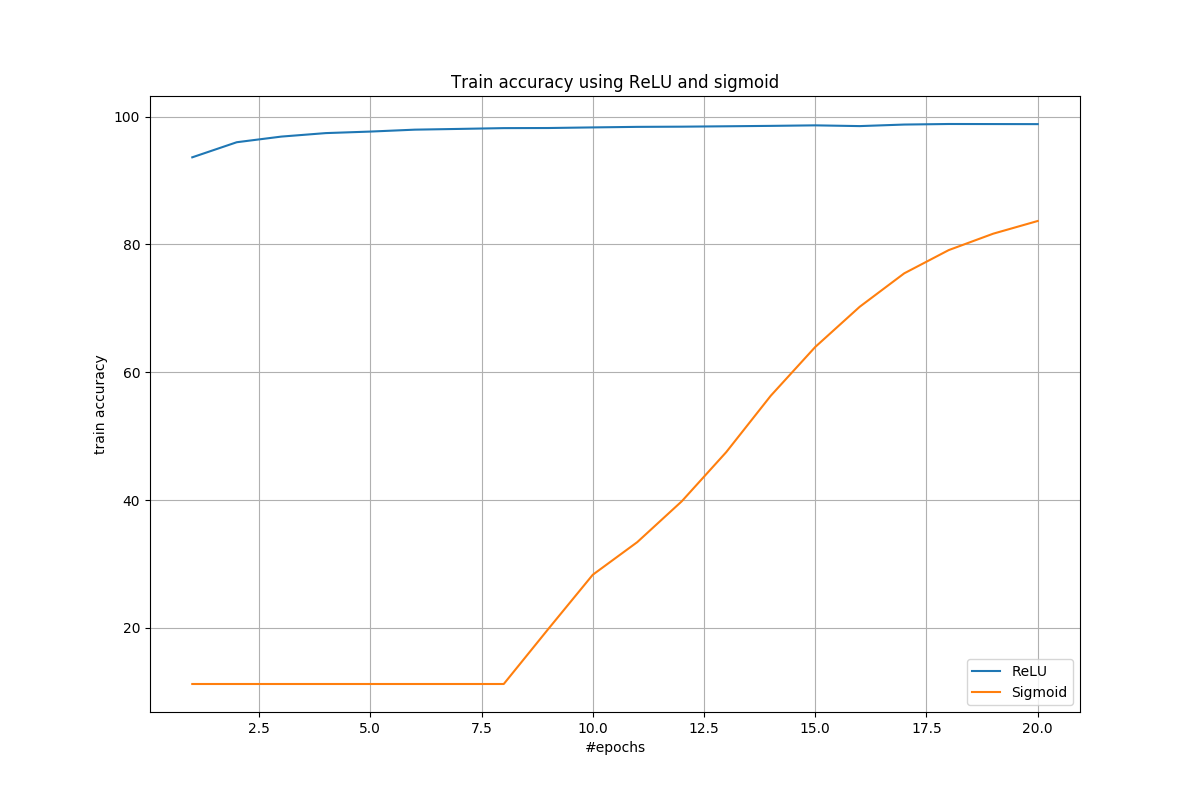
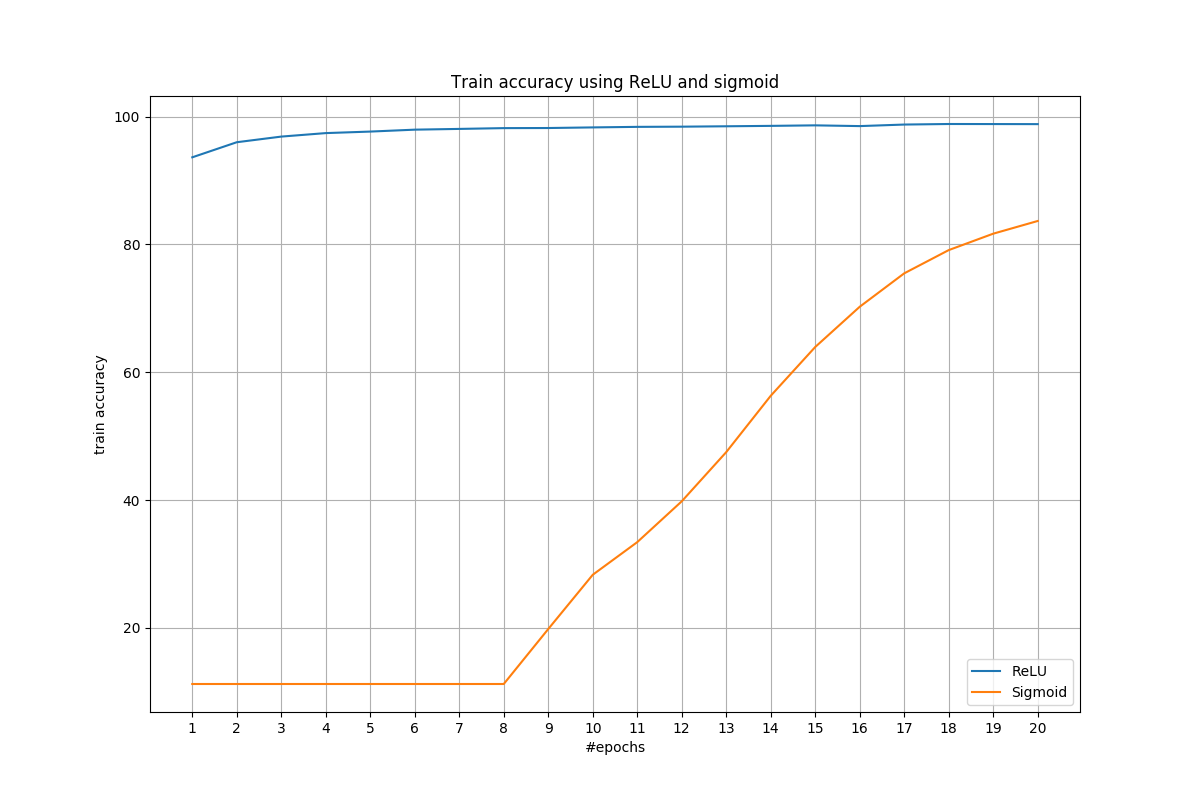
Batch normalization changes

Changed region(s): [[0.7708, 0.9062, 0.8017, 0.9375], [0.5858, 0.9062, 0.6167, 0.9375]]

diff --git a/mnist/plot_helper.py b/mnist/plot_helper.py
@@ -13,7 +13,7 @@ def plot(title, xlabel, ylabel, X_list, Y_list, L_list, save_file):
 		l, = plt.plot(X_list[i], Y_list[i])
 		legend_tup.append(l)
 		legend_label.append(L_list[i])
-	#plt.xticks(X_list[0], X_list[0])
+	plt.xticks(X_list[0], X_list[0])
 	plt.grid()
 	plt.legend(tuple(legend_tup), tuple(legend_label))
 	plt.savefig(save_file)
@@ -32,22 +32,60 @@ def plot(title, xlabel, ylabel, X_list, Y_list, L_list, save_file):
 
 
 # ReLU & Sigmoid
-with open('/home/vparambath/Desktop/iith/ds-projects/data/mnist/relu_20_train_loss_map.pkl', 'rb') as fp:
-    relu_train_accuracy_map = pickle.load(fp)
-with open('/home/vparambath/Desktop/iith/ds-projects/data/mnist/relu_20_test_accuracy_map.pkl', 'rb') as fp:
-    relu_test_accuracy_map = pickle.load(fp)
-with open('/home/vparambath/Desktop/iith/ds-projects/data/mnist/sigmoid_20_train_loss_map.pkl', 'rb') as fp:
-    sig_train_accuracy_map = pickle.load(fp)
-with open('/home/vparambath/Desktop/iith/ds-projects/data/mnist/sigmoid_20_test_accuracy_map.pkl', 'rb') as fp:
-    sig_test_accuracy_map = pickle.load(fp)
+# with open('/home/vparambath/Desktop/iith/ds-projects/data/mnist/relu_20_train_accuracy_map.pkl', 'rb') as fp:
+#     relu_train_accuracy_map = pickle.load(fp)
+# with open('/home/vparambath/Desktop/iith/ds-projects/data/mnist/relu_20_test_accuracy_map.pkl', 'rb') as fp:
+#     relu_test_accuracy_map = pickle.load(fp)
+# with open('/home/vparambath/Desktop/iith/ds-projects/data/mnist/sigmoid_20_train_accuracy_map.pkl', 'rb') as fp:
+#     sig_train_accuracy_map = pickle.load(fp)
+# with open('/home/vparambath/Desktop/iith/ds-projects/data/mnist/sigmoid_20_test_accuracy_map.pkl', 'rb') as fp:
+#     sig_test_accuracy_map = pickle.load(fp)
 
-# accuracy plot
-plot('Train accuracy using ReLU and sigmoid', '#epochs', 'train accuracy', 
- 	[list(relu_train_accuracy_map.keys()), list(sig_train_accuracy_map.keys())], 
- 	[list(relu_train_accuracy_map.values()), list(sig_train_accuracy_map.values())], 
- 	['ReLU', 'Sigmoid'], '/home/vparambath/Desktop/iith/ds-projects/data/mnist/train_accuracy_plot.png')
+# # accuracy plot
+# plot('Train accuracy using ReLU and sigmoid', '#epochs', 'train accuracy', 
+#  	[list(relu_train_accuracy_map.keys()), list(sig_train_accuracy_map.keys())], 
+#  	[list(relu_train_accuracy_map.values()), list(sig_train_accuracy_map.values())], 
+#  	['ReLU', 'Sigmoid'], '/home/vparambath/Desktop/iith/ds-projects/data/mnist/train_accuracy_plot.png')
 
-plot('Test accuracy using ReLU and sigmoid', '#epochs', 'test accuracy', 
- 	[list(relu_test_accuracy_map.keys()), list(sig_test_accuracy_map.values())] , 
- 	[list(relu_test_accuracy_map.values()), list(sig_test_accuracy_map.keys())], 
- 	['ReLU', 'Sigmoid'], '/home/vparambath/Desktop/iith/ds-projects/data/mnist/test_accuracy_plot.png')
+# plot('Test accuracy using ReLU and sigmoid', '#epochs', 'test accuracy', 
+#  	[list(relu_test_accuracy_map.keys()), list(sig_test_accuracy_map.keys())] , 
+#  	[list(relu_test_accuracy_map.values()), list(sig_test_accuracy_map.values())], 
+#  	['ReLU', 'Sigmoid'], '/home/vparambath/Desktop/iith/ds-projects/data/mnist/test_accuracy_plot.png')
+
+
+# with open('/home/vparambath/Desktop/iith/ds-projects/data/mnist/relu_20_25_train_accuracy_map.pkl', 'rb') as fp:
+#     relu_train_accuracy_25_map = pickle.load(fp)
+# with open('/home/vparambath/Desktop/iith/ds-projects/data/mnist/relu_20_50_train_accuracy_map.pkl', 'rb') as fp:
+#     relu_train_accuracy_50_map = pickle.load(fp)
+# with open('/home/vparambath/Desktop/iith/ds-projects/data/mnist/relu_20_75_train_accuracy_map.pkl', 'rb') as fp:
+#     relu_train_accuracy_75_map = pickle.load(fp)
+# with open('/home/vparambath/Desktop/iith/ds-projects/data/mnist/relu_20_100_train_accuracy_map.pkl', 'rb') as fp:
+#     relu_train_accuracy_100_map = pickle.load(fp)
+
+# # train accuracy plot
+# plot('Train accuracy for different Dropout probabilities', '#epochs', 'train accuracy', 
+#  	[list(relu_train_accuracy_25_map.keys()), list(relu_train_accuracy_50_map.keys()), 
+#  	list(relu_train_accuracy_75_map.keys()), list(relu_train_accuracy_100_map.keys())], 
+#  	[list(relu_train_accuracy_25_map.values()), list(relu_train_accuracy_50_map.values()), 
+#  	list(relu_train_accuracy_75_map.values()), list(relu_train_accuracy_100_map.values())], 
+#  	['Dropout prob : 0.25', 'Dropout prob : 0.50', 'Dropout prob : 0.75', 'Dropout prob : 1.00'], 
+#  	'/home/vparambath/Desktop/iith/ds-projects/data/mnist/train_accuracy_dropout_plot.png')
+
+
+# with open('/home/vparambath/Desktop/iith/ds-projects/data/mnist/relu_20_25_test_accuracy_map.pkl', 'rb') as fp:
+#     relu_test_accuracy_25_map = pickle.load(fp)
+# with open('/home/vparambath/Desktop/iith/ds-projects/data/mnist/relu_20_50_test_accuracy_map.pkl', 'rb') as fp:
+#     relu_test_accuracy_50_map = pickle.load(fp)
+# with open('/home/vparambath/Desktop/iith/ds-projects/data/mnist/relu_20_75_test_accuracy_map.pkl', 'rb') as fp:
+#     relu_test_accuracy_75_map = pickle.load(fp)
+# with open('/home/vparambath/Desktop/iith/ds-projects/data/mnist/relu_20_100_test_accuracy_map.pkl', 'rb') as fp:
+#     relu_test_accuracy_100_map = pickle.load(fp)
+
+# # train accuracy plot
+# plot('Test accuracy for different Dropout probabilities', '#epochs', 'test accuracy', 
+#  	[list(relu_test_accuracy_25_map.keys()), list(relu_test_accuracy_50_map.keys()), 
+#  	list(relu_test_accuracy_75_map.keys()), list(relu_test_accuracy_100_map.keys())], 
+#  	[list(relu_test_accuracy_25_map.values()), list(relu_test_accuracy_50_map.values()), 
+#  	list(relu_test_accuracy_75_map.values()), list(relu_test_accuracy_100_map.values())], 
+#  	['Dropout prob : 0.25', 'Dropout prob : 0.50', 'Dropout prob : 0.75', 'Dropout prob : 1.00'], 
+#  	'/home/vparambath/Desktop/iith/ds-projects/data/mnist/test_accuracy_dropout_plot.png')

diff --git a/mnist/mnist.py b/mnist/mnist.py
@@ -1,4 +1,5 @@
 # https://cs224d.stanford.edu/notebooks/vanishing_grad_example.html
+# https://towardsdatascience.com/batch-normalization-in-neural-networks-1ac91516821c
 # https://www.cs.toronto.edu/~hinton/absps/JMLRdropout.pdf
 # http://www.cs.toronto.edu/~fritz/absps/reluICML.pdf
 from __future__ import print_function
@@ -14,23 +15,40 @@ import pickle
 class Net(nn.Module):
     def __init__(self):
         super(Net, self).__init__()
-        self.dropout_prob = 0.5
+        self.dropout_prob = 0.25
         self.conv1 = nn.Conv2d(1, 10, kernel_size=5)
+        self.bn1 = nn.BatchNorm2d(10)
         self.conv2 = nn.Conv2d(10, 20, kernel_size=5)
+        self.bn2 = nn.BatchNorm2d(20)
         self.conv2_drop = nn.Dropout2d(p=self.dropout_prob)
         self.fc1 = nn.Linear(320, 50)
+        self.bn3 = nn.BatchNorm1d(50)
         self.fc2 = nn.Linear(50, 10)
+        self.bn4 = nn.BatchNorm1d(10)
+
+        # Weight initialization
+        # for m in self.modules():
+        #     if isinstance(m, nn.Conv2d):
+        #         n = m.kernel_size[0] * m.kernel_size[1] * m.out_channels
+        #         m.weight.data.normal_(0, math.sqrt(2. / n))
+        #     elif isinstance(m, nn.BatchNorm2d):
+        #         m.weight.data.fill_(1)
+        #         m.bias.data.zero_()
 
     def forward(self, x):
         #x = F.relu(F.max_pool2d(self.conv1(x), 2))
-        x = F.sigmoid(F.max_pool2d(self.conv1(x), 2))
+        #x = F.sigmoid(F.max_pool2d(self.conv1(x), 2))
+        x = F.relu(F.max_pool2d(self.bn1(self.conv1(x)), 2))
         #x = F.relu(F.max_pool2d(self.conv2_drop(self.conv2(x)), 2))
-        x = F.sigmoid(F.max_pool2d(self.conv2_drop(self.conv2(x)), 2))
+        #x = F.sigmoid(F.max_pool2d(self.conv2_drop(self.conv2(x)), 2))
+        x = F.relu(F.max_pool2d(self.conv2_drop(self.bn2(self.conv2(x))), 2))
         x = x.view(-1, 320)
         #x = F.relu(self.fc1(x))
-        x = F.sigmoid(self.fc1(x))
+        #x = F.sigmoid(self.fc1(x))
+        x = F.relu(self.bn3(self.fc1(x)))
         x = F.dropout(x, training=self.training, p=self.dropout_prob)
-        x = self.fc2(x)
+        #x = self.fc2(x)
+        x = self.bn4(self.fc2(x))
         return F.log_softmax(x, dim=1)
 
 def train(args, model, use_cuda, train_loader, optimizer, epoch):
@@ -133,16 +151,16 @@ def main():
         test_loss_map[epoch] = test_loss
         test_accuracy_map[epoch] = test_accuracy
 
-    with open('/home/vparambath/Desktop/iith/ds-projects/data/mnist/relu_20_train_loss_map.pkl', 'wb') as fp:
+    with open('/home/vparambath/Desktop/iith/ds-projects/data/mnist/relu_20_25_bn_train_loss_map.pkl', 'wb') as fp:
         pickle.dump(train_loss_map, fp)
 
-    with open('/home/vparambath/Desktop/iith/ds-projects/data/mnist/relu_20_train_loss_map.pkl', 'wb') as fp:
+    with open('/home/vparambath/Desktop/iith/ds-projects/data/mnist/relu_20_25_bn_train_accuracy_map.pkl', 'wb') as fp:
         pickle.dump(train_accuracy_map, fp)
 
-    with open('/home/vparambath/Desktop/iith/ds-projects/data/mnist/relu_20_test_loss_map.pkl', 'wb') as fp:
+    with open('/home/vparambath/Desktop/iith/ds-projects/data/mnist/relu_20_25_bn_test_loss_map.pkl', 'wb') as fp:
         pickle.dump(test_loss_map, fp)
 
-    with open('/home/vparambath/Desktop/iith/ds-projects/data/mnist/relu_20_test_accuracy_map.pkl', 'wb') as fp:
+    with open('/home/vparambath/Desktop/iith/ds-projects/data/mnist/relu_20_25_bn_test_accuracy_map.pkl', 'wb') as fp:
         pickle.dump(test_accuracy_map, fp)
 
 
